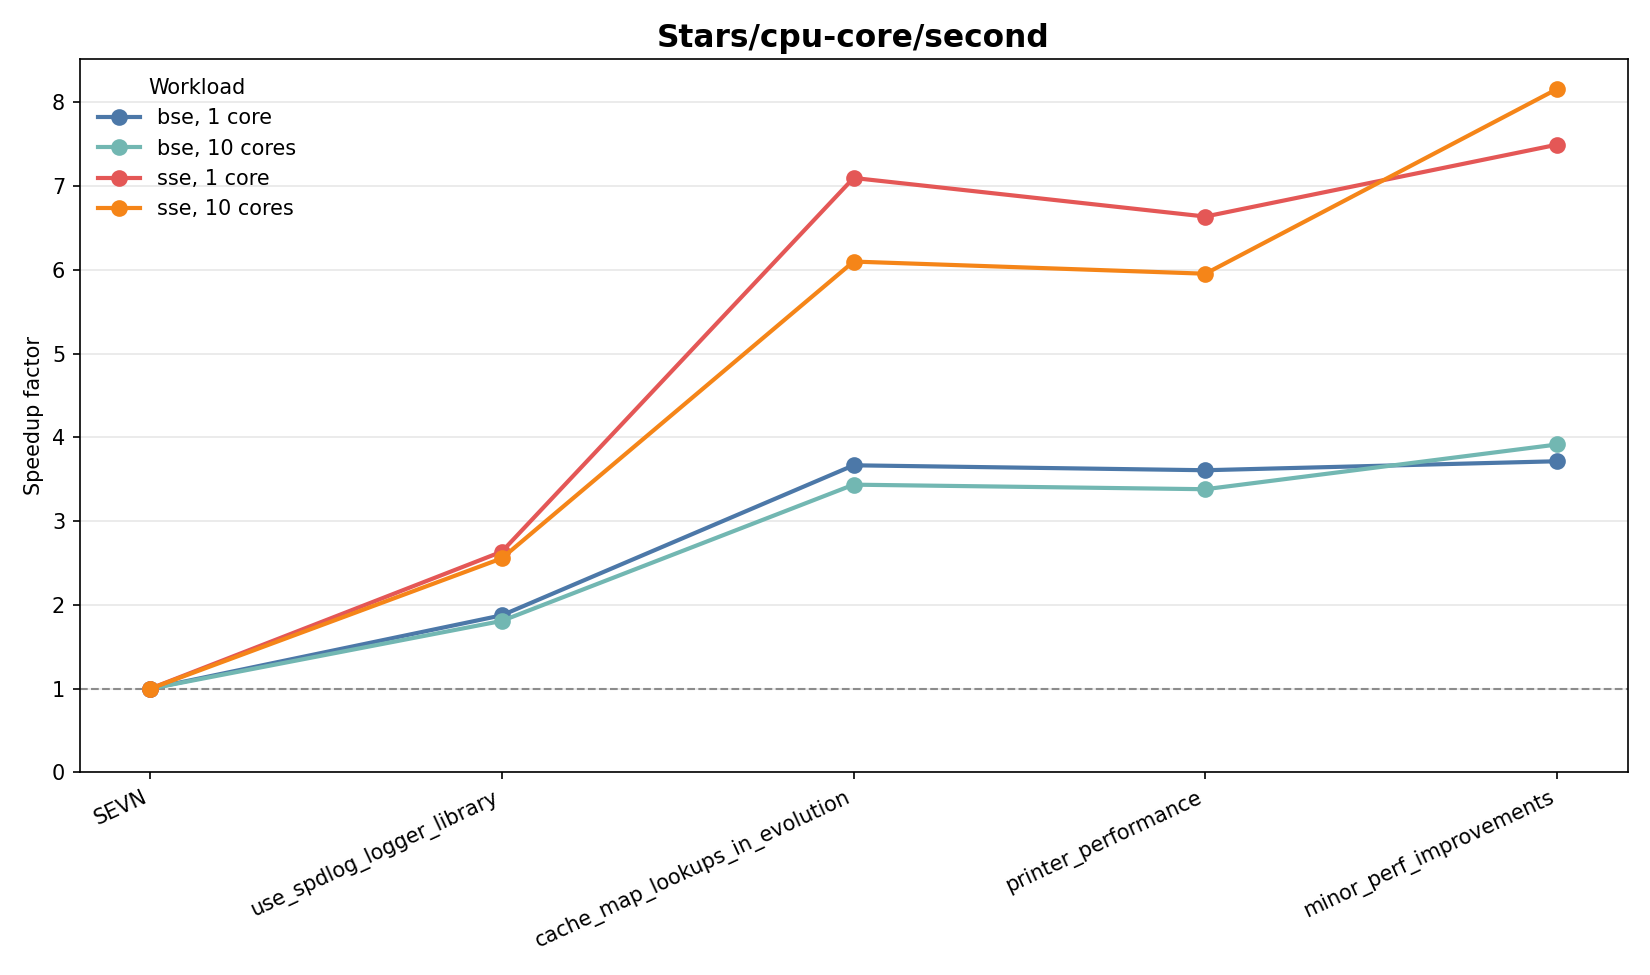
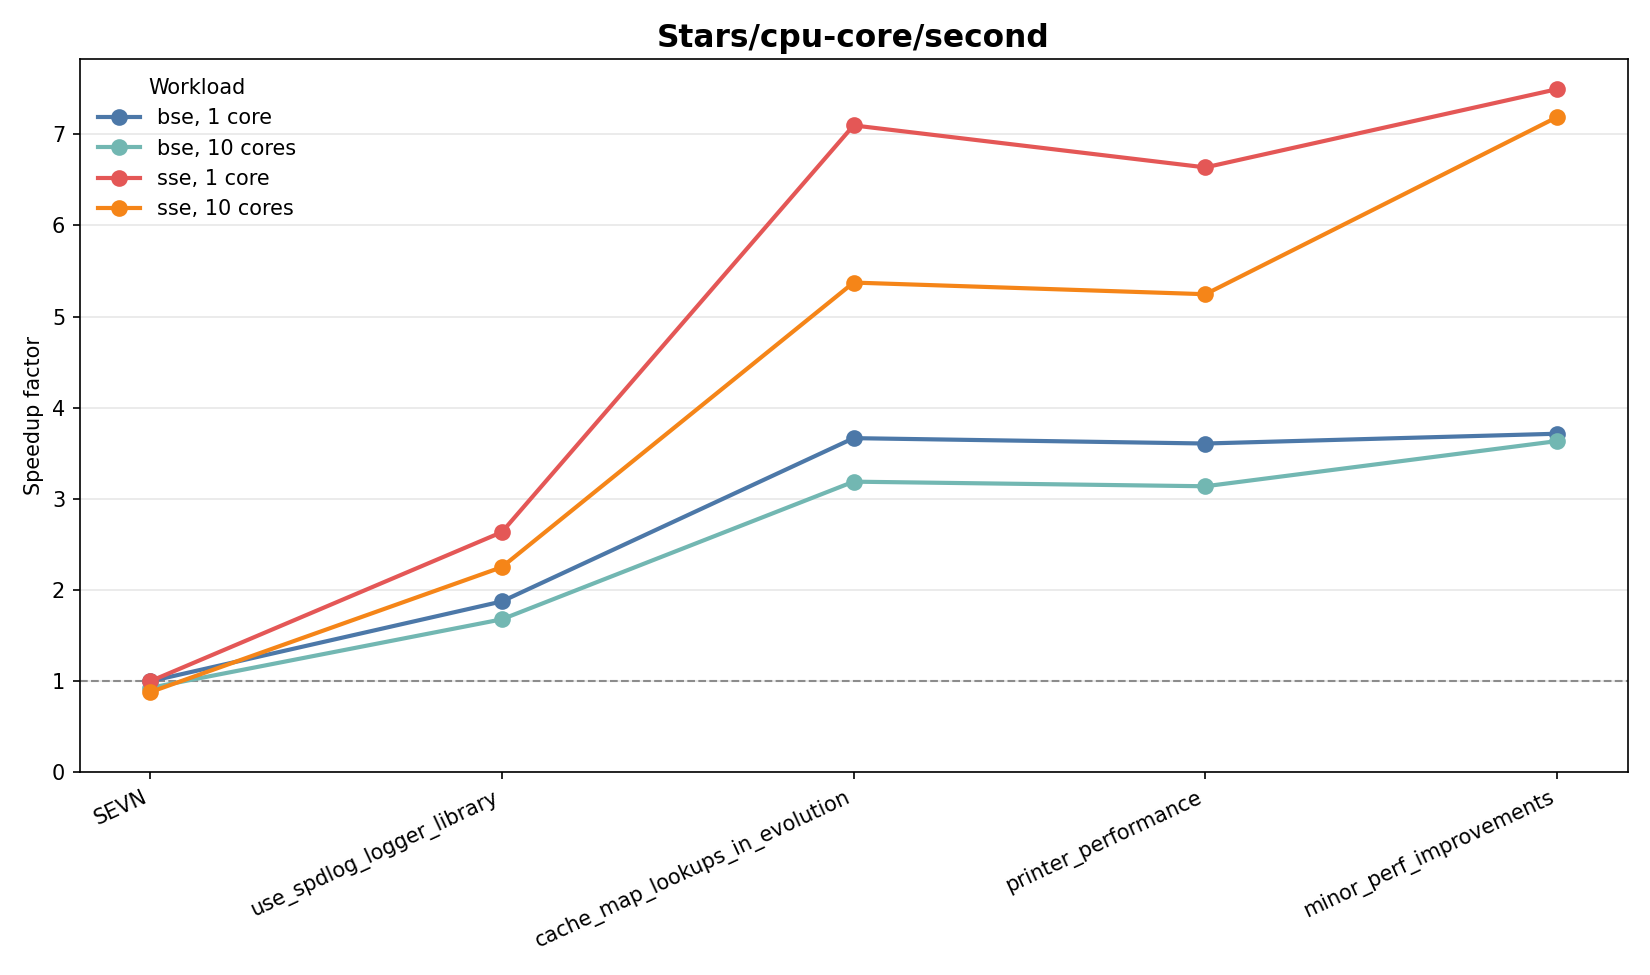
add body-eye-sync project

diff --git a/slides/index.md b/slides/index.md
@@ -45,3 +45,20 @@ Then questions / comments / discussion.
 # SEVN Performance Engineering
 
 ![width:900px](sevn.png)
+
+---
+
+# body-eye-sync
+
+- *Project type:* Open Call
+- *Description:* GUI to synchronise video and audio inputs and track mutual gaze of participants
+- *Developer time:* 4 PM
+- *People:* Tuyen, James, Liam
+- *Techstack:* Python
+- *Topic:* Feature development
+
+---
+
+# body-eye-sync object tracking
+
+![width:600px](body-eye-sync.jpg)